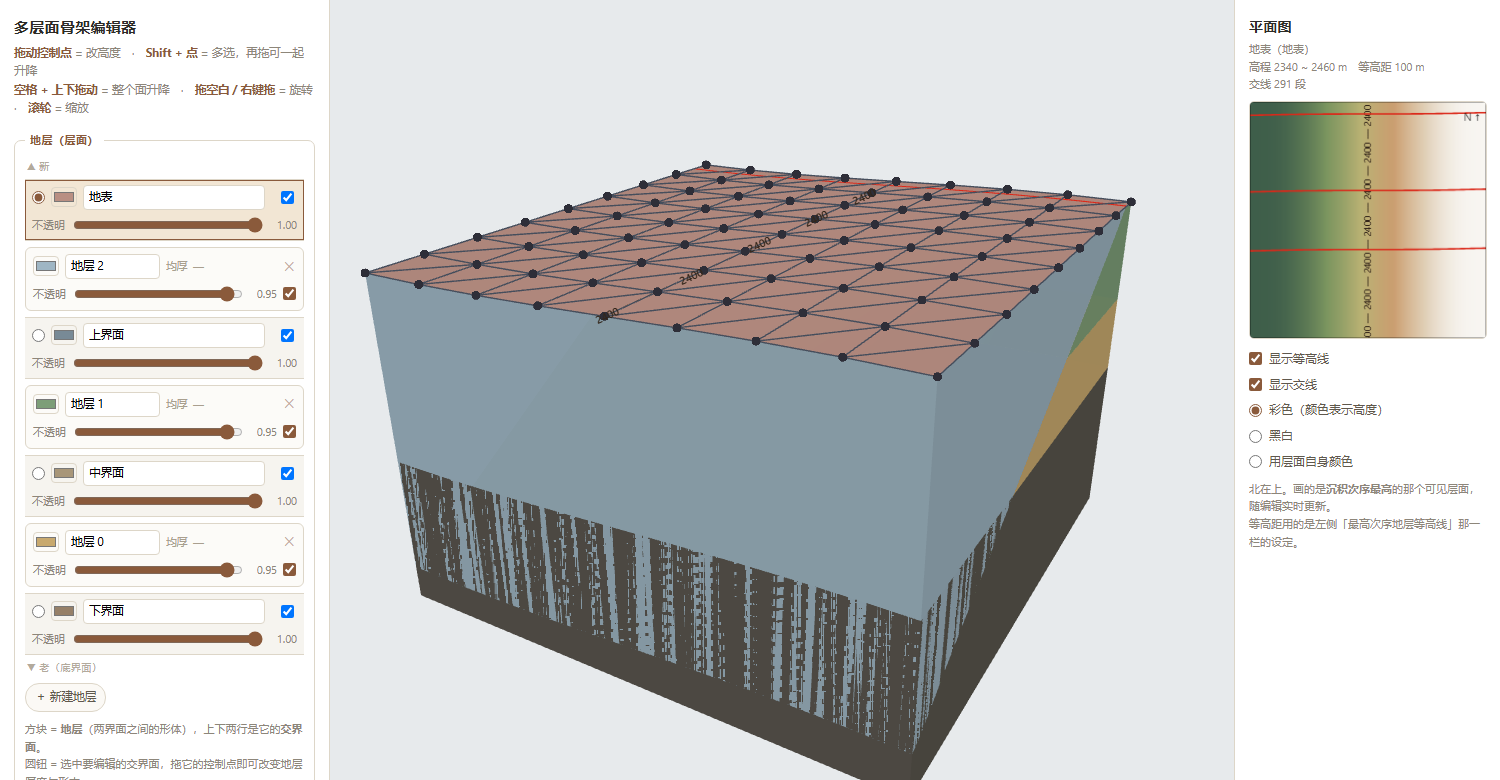
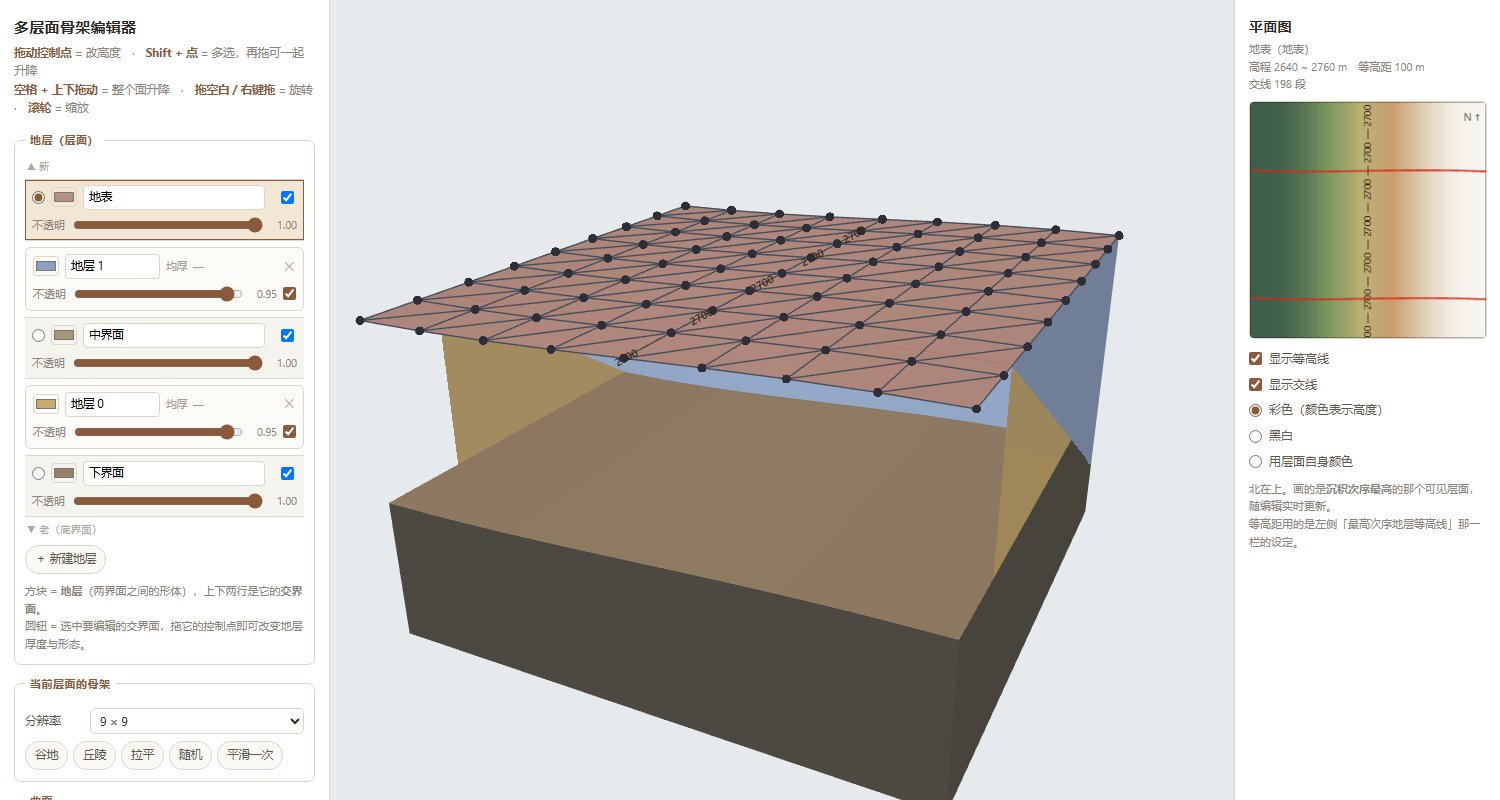
基底（底平面 ↔ 第一个交界面之间那层）也必须服从透明规则；侧壁透明加三档开关
用户报的最后一个问题：
「最下面一层还是有这个bug」—— 他说的最下面一层是【底平面和第一个交界面之间的地层】，
也就是基底。现象是「蓝色和最下面的深棕色重叠，有很多竖条条」。

根因：buildBase 的切面一直硬写 sA.push(1e9)，永远实心，从不参与规则。
于是当某个更高的界面压到 ifaces[0] 以下时，上面的地层会一直探进基底的深度范围，
两张切面在同一平面上共面重叠 —— 就是那一片竖条纹的 z-fighting。

修法：基底的切面用同一条直线 f(z) = min over j>=1 ( z_j ) − z

  上沿（基底的顶 = 最低的那个交界面）→  f = bot.S
  下沿（纯平地面高程）              →  f = C − 地面高程
  C = 该柱上最低的、比基底更高的界面高程

f 在 z = C 处过零，于是 C 以上的那截基底切面被丢掉 —— 正好是被上面地层占住的那一截。
基底深度调大调小不影响过零位置（过零由界面决定，不由深度决定）。

另外把侧壁透明的三种判法做成了面板开关（「侧壁透明」），默认 match：
  match —— 该柱只要顶面或底面任一被判透明，整条柱子就透；与俯视图逐柱严格对上
  taper —— 同一条规则沿高度的连续版本 f(z) = min_{j>k}(z_j) − z
           （上沿那个 min(0, top.S) 里的 0 有依据：最上面那个界面到自己的间距恰好是 0）
  solid —— 侧壁完全不参与规则
基底固定用 taper 那条直线，因为它要挡的共面重叠天生是沿高度的。

为什么加开关：这个 bug 前后改了五轮，每一轮都是我在猜他的构型。与其再猜第六次，
不如把三种判法都留在界面上，让他自己切。

检验 142 项全过。新增 I4 段：
  基底切面上「透明」与「z > 最低的更高界面」逐顶点一致（不符 0/1152）
  被占住的那一截确实存在且全部透明（429 个顶点）
  没被占住的部分保持实心（723 个实心 / 0 个透明）
  基底上沿与它上方那个地层的底面同源、结论一致（不符 0/96）
  关掉规则后基底切面不再透明；基底深度改成 900 m 结论不变
I3 段新增三档开关的各自性质与互不相同，以及存档能恢复该设置。

diff --git a/index.html b/index.html
@@ -146,6 +146,19 @@
 
       <label class="cb"><input type="checkbox" id="cIface" checked> 显示交界面</label>
       <label class="cb"><input type="checkbox" id="cRule" checked> 沉积次序透明规则</label>
+      <div class="row"><label>侧壁透明</label>
+        <select id="cWall">
+          <option value="match" selected>与顶/底面一致（二值）</option>
+          <option value="taper">渐变（相切处收拢成楔形）</option>
+          <option value="solid">侧壁始终实心</option>
+        </select></div>
+      <div class="note" style="margin-top:4px">
+        顶面和底面是<b>面</b>，在每一点上判一次，结论是二值的；
+        侧壁是<b>一段高度</b>，怎么判有三种选法：<br>
+        <b>与顶/底面一致</b> —— 侧壁和俯视图/仰视图完全对上，只要上下任一面透，这个柱子就整条透；
+        <b>渐变</b> —— 在两者之间线性过渡，透明区在相切处收拢成楔形，不会出现贯穿的洞；
+        <b>始终实心</b> —— 切面当作被切开的岩石，永远不透明。
+      </div>
 
       <label class="cb" style="margin-top:9px"><input type="checkbox" id="cContour" checked> 地表等高线</label>
       <label class="cb"><input type="checkbox" id="cContourLabel" checked> 等高线标注高程数字</label>
@@ -244,7 +257,7 @@ const D2R = Math.PI / 180;
 const S = {
   res: 9, ifaces: [], strata: [], active: 0, surf: 'interp',
   showWire: true, showFill: false, showHandles: true, xray: true,
-  inter: true, orderRule: true, showIface: true, curv: false, autoRotate: false,
+  inter: true, orderRule: true, wallMode: 'match', showIface: true, curv: false, autoRotate: false,
   interColor: [0.86, 0.16, 0.10], interAlpha: 1,
   showContour: true, contourInt: 100, contourLabel: true,
   contourColor: [0.353, 0.239, 0.129], contourAlpha: 0.9,
@@ -646,26 +659,26 @@ function buildStratum(k) {
       const at = pos.length/3;
       pos.push(x1,y1,zb1,  x2,y2,zb2,  x2,y2,zt2);
       pos.push(x1,y1,zb1,  x2,y2,zt2,  x1,y1,zt1);
-      /* 侧壁的场 = 这一柱里【某个高度离控制它的那个更高界面还有多远】：
-            f(z) = min over j>k of ( z_j ) − z
-         这是关于 z 的一条斜率恒为 −1 的直线，两个端点正好落在上下两个界面上：
-            下沿 z = z_k      →  f = bot.S
-            上沿 z = z_{k+1}  →  f = min(0, top.S)
-         三角面的两个顶点就在这两端，所以线性插值出来的就是这条直线本身。
-         于是侧壁与顶面/底面【在两端严格一致】：
-            底面透明（bot.S < 0）→ 下沿透明；
-            顶面透明（top.S < 0）→ 上沿透明。
-         这才是"俯视图透明、侧视也该透明"的实现方式 —— 三段用的是同一个判据。
-
-         上沿那个 min(0, ·) 是关键：最上面那个界面没有更高的界面压着，
-         top.S 是 +∞ 哨兵；但几何上它的 f 恰好是 0（自己和自己没有间距）。
-         取 0 而不是 +∞，插值才不会被压扁成一条看不见的发丝；
-         而且 0 不是凑出来的数，是从 f 的定义直接得到的。
-
-         只有一端为负时，透明区是一条【楔形】，在相切/尖灭处收拢到零；
-         两端都为负时整条贯穿 —— 那时上下两个界面确实都被埋掉了。 */
+      /* 侧壁的场有三种选法（面板「侧壁透明」）：
+         match —— 和顶/底面【同一个判据、同样二值】：只要该柱上层或下层那一面被判透明，
+                  整条柱子就透。侧壁与俯视图/仰视图严格对上。
+         taper —— 把同一个规则写成沿高度的连续版本 f(z) = min_{j>k}(z_j) − z，
+                  这是斜率 −1 的直线，两端正好落在两个界面上：
+                     下沿 z=z_k      → f = bot.S
+                     上沿 z=z_{k+1}  → f = min(0, top.S)   （+∞ 哨兵在这个高度上真值是 0）
+                  两端同号（含恰好相切）就实心；只有一端为负时是楔形，不会贯穿。
+         solid —— 侧壁完全不参与规则。
+         注：上沿那个 0 是有依据的 —— 最上面那个界面到自己的间距恰好是 0；
+         曾经用一个「模型高程跨度」的自由尺度硬凑，那是错的，已删除。 */
       const tf = q => { const s = top.S[q]; return s < 0 ? s : 0; };
-      const th = [bot.S[q1], bot.S[q2], tf(q2), bot.S[q1], tf(q2), tf(q1)];
+      let th;
+      if (S.wallMode === 'solid') th = 1e9;
+      else if (S.wallMode === 'taper')
+        th = [bot.S[q1], bot.S[q2], tf(q2), bot.S[q1], tf(q2), tf(q1)];
+      else {
+        const m1 = Math.min(bot.S[q1], top.S[q1]), m2 = Math.min(bot.S[q2], top.S[q2]);
+        th = [m1, m2, m2, m1, m2, m1];
+      }
       for (let u=0;u<6;u++){ nrm.push(nx,ny,0); col.push(base[0],base[1],base[2],1); sA.push(th[u]); }
       for (let u=0;u<6;u++) idx.push(at+u);
     }
@@ -716,13 +729,13 @@ function buildBase() {
   const Lm = mapL(), n = NS+1, z0 = baseZ();
   const pos=[], nrm=[], col=[], idx=[], sA=[];
   const c = S.baseColor.map(v=>v/255);
-  const quad = (pts, nx, ny, nz) => {
+  const quad = (pts, nx, ny, nz, sArr) => {
     const at = pos.length/3;
-    for (const p of pts) {
+    for (let t=0;t<pts.length;t++) {
+      const p = pts[t];
       pos.push(p[0],p[1],p[2]); nrm.push(nx,ny,nz);
       col.push(c[0],c[1],c[2],1);
-      /* 基底永远在最低那个界面之下，不可能倒置 —— 切面永远实心 */
-      sA.push(1e9);
+      sA.push(sArr ? sArr[t] : 1e9);      // 地面本身永远实心
     }
     for (let u=0;u<6;u++) idx.push(at+u);
   };
@@ -731,8 +744,21 @@ function buildBase() {
       const q1=list[t], q2=list[t+1];
       const x1=Lm*(q1%n)/NS, y1=Lm*((q1/n)|0)/NS;
       const x2=Lm*(q2%n)/NS, y2=Lm*((q2/n)|0)/NS;
+      /* 基底的切面【必须参与规则】，否则交界面上有更高的界面压下来时，
+         上面的地层会一直探到基底的深度范围里，两张切面共面重叠 ——
+         看上去就是一片竖条纹的 z-fighting（蓝的和基底的深棕色叠在一起）。
+         这里同样是同一条直线 f(z) = min over j>=1 ( z_j ) − z：
+             上沿 z = z0_bot（基底的顶=最低的那个交界面）→ f = bot.S
+             下沿 z = 地面高程                        → f = C − 地面高程
+         其中 C = 该柱上最低的更高界面高程。f 在 z = C 处过零，
+         也就是说【C 以上的那截基底切面被丢掉】—— 正好是重叠的那一截。
+         基底的判据天生是沿高度的（重叠发生在某个高度以上），
+         所以它固定用这个渐变写法，不跟随面板上的「侧壁透明」模式。 */
+      const t1 = bot.S[q1], t2 = bot.S[q2];
+      const b1 = t1 + bot.Z[q1] - z0, b2 = t2 + bot.Z[q2] - z0;
       quad([[x1,y1,z0],[x2,y2,z0],[x2,y2,bot.Z[q2]],
-            [x1,y1,z0],[x2,y2,bot.Z[q2]],[x1,y1,bot.Z[q1]]], nx, ny, 0);
+            [x1,y1,z0],[x2,y2,bot.Z[q2]],[x1,y1,bot.Z[q1]]], nx, ny, 0,
+           [b1, b2, t2, b1, t2, t1]);
     }
   };
   const south=[], north=[], west=[], east=[];
@@ -1666,6 +1692,10 @@ for (const id in cbs) {
   el.addEventListener('change', () => { S[cbs[id]] = el.checked; after(false); });
 }
 const on = (id, fn) => document.getElementById(id).addEventListener('click', fn);
+/* 侧壁透明的三种判法（见 buildStratum 里的注释） */
+document.getElementById('cWall').addEventListener('change', e => {
+  S.wallMode = e.target.value; after(false);
+});
 /* 交线颜色 / 不透明度走 uniform，改它们只需重绘，不必重建几何 */
 document.getElementById('cInterColor').addEventListener('input', e => {
   const h = e.target.value;
@@ -1742,7 +1772,7 @@ function snapshot() {
                color: S.contourColor.slice(), alpha: S.contourAlpha },
     map: { mode: S.mapMode, contour: S.mapContour, inter: S.mapInter,
            dragSens: S.dragSens },
-    orderRule: S.orderRule, showIface: S.showIface,
+    orderRule: S.orderRule, wallMode: S.wallMode, showIface: S.showIface,
     base: { show: S.showBase, depth: S.baseDepth, color: S.baseColor.slice() },
     view: { az: camAz, el: camEl, dist: camDist },
     // 交界面自下而上；地层数 = 交界面数 − 1，strata[k] 位于 ifaces[k] 与 ifaces[k+1] 之间
@@ -1830,6 +1860,10 @@ function loadText(text) {
   if (typeof d.orderRule === 'boolean') {
     S.orderRule = d.orderRule;
     document.getElementById('cRule').checked = S.orderRule;
+  }
+  if (d.wallMode === 'match' || d.wallMode === 'taper' || d.wallMode === 'solid') {
+    S.wallMode = d.wallMode;
+    document.getElementById('cWall').value = S.wallMode;
   }
   if (typeof d.showIface === 'boolean') {
     S.showIface = d.showIface;

diff --git a/README.md b/README.md
@@ -89,36 +89,39 @@ S < 0  →  有更高的界面压在下面  →  丢弃该片元
 
 在场上过零处丢弃片元，透明边界就**精确落在两面的交线上**。如果改用逐顶点开关，边界只能落在三角形顶点上，会呈网格状锯齿，正好把画在那条边界上的交线啃出缺口。
 
-**侧壁（切面）用的是同一个场的连续版本，所以两端和顶/底面严格一致。**
+**侧壁（切面）的透明有三种判法**，面板上「侧壁透明」可选：
 
-顶面和底面是"面"，在每一点上判一次；侧壁是一段高度，要在**整段**上判。同一个规则的连续写法，是看某个高度离控制它的那个更高界面有多远：
+顶面和底面是**面**，在每一点上判一次，结论是**二值**的；侧壁是**一段高度**，怎么判有讲究：
+
+| 模式 | 做法 | 特点 |
+|---|---|---|
+| **与顶/底面一致**（默认） | 该柱只要顶面或底面任一被判透明，整条柱子就透 | 侧壁与俯视图/仰视图**逐柱严格对上** |
+| 渐变 | 把同一个规则写成沿高度的连续版本（下沿 `bot.S`、上沿 `min(0, top.S)`） | 只有一端为负时是**楔形**，在相切处收拢到零，不会贯穿；但面上二值、侧壁渐变，两者看上去可能不一样 —— 界面埋得浅时侧壁只剩一条细缝，看着仍像实心 |
+| 始终实心 | 侧壁完全不参与规则 | 切面当作被切开的岩石 |
+
+**基底（底平面 ↔ 第一个交界面之间那层）固定用"渐变"，不跟随上面的模式。** 因为基底要挡的那件事天生是沿高度的：某个更高的界面压到 `ifaces[0]` 以下时，上面的地层会一直探进基底的深度范围，**两张切面共面重叠**，看上去就是一片竖条纹的 z-fighting（蓝色地层和基底的深棕色叠在一起）。
 
 ```
-f(z) = min over j>k of ( z_j ) − z        关于 z 的直线，斜率恒为 −1
+f(z) = min over j>=1 of ( z_j ) − z        同样是斜率 −1 的直线
 
-下沿 z = z_k      →  f = bot.S          （和【底面】用的是同一个数）
-上沿 z = z_{k+1}  →  f = min(0, top.S)  （和【顶面】同号）
+上沿（基底的顶 = 最低的那个交界面）→  f = bot.S
+下沿（纯平地面高程）              →  f = C − 地面高程，C = 该柱最低的更高界面
 S < 0 → 丢弃
 ```
 
-三角面的两个顶点正好落在这两端，所以插值出来的就是这条直线本身。于是：
+`f` 在 `z = C` 处过零，也就是**C 以上的那截基底切面被丢掉** —— 正好是被上面地层占住的那一截。基底深度调大调小都不影响过零位置，因为过零位置是由界面决定的。
 
-- **底面透明 ⇒ 侧壁下沿透明**，**顶面透明 ⇒ 侧壁上沿透明** —— 两端严格一致，俯视图透的地方侧面也透
-- 只有一端为负时，透明区是一条**楔形**，在相切/尖灭处收拢到零
-- 两端都为负时整条贯穿（那时上下两个界面确实都被埋掉了）
-- 两端都不为负（含恰好相切）时**保持实心**
-
-上沿那个 `min(0, ·)` 是关键。最上面那个界面没有更高的界面压着，它的场是 `+∞` 哨兵；但几何上它到自己的间距恰好是 **0**，所以取 0 是有依据的，不是凑出来的数。（曾经用一个"模型高程跨度"的自由尺度硬凑，那是错的：**0 才是 f 在 z = z_{k+1} 处的真值**。）
+「渐变」那两个端点不是凑的：`f(z)` 是斜率恒为 −1 的直线，两端正好落在两个界面上。上沿那个 `min(0, top.S)` 里的 `0` 也不是凑的 —— 最上面那个界面没有更高的界面压着、它的场是 `+∞` 哨兵，**而几何上它到自己的间距恰好就是 0**。（曾经用一个"模型高程跨度"的自由尺度硬凑，那是错的，已经删掉。）
 
 这个判据走过三个弯路，都记在这里免得再走回去：
 
 | 写法 | 后果 |
 |---|---|
-| 上下沿都用 `min(下界面场, 上界面场)`，整柱一个值 | 面和侧壁是一致的（这点是对的），但柱内没有梯度，相切附近会整条透明成一个**洞** |
-| 侧壁完全不参与规则 | 规则在切面上彻底看不见 |
-| 改用"这一柱的厚度是否 < 0"判 | 判据和顶/底面**不再是同一个**了 —— 于是出现**俯视图透明、侧面却实心** |
+| 侧壁完全不参与规则（基底也一直如此） | 规则在切面上彻底看不见；基底还会和上面的地层**共面重叠成竖条纹** |
+| 侧壁改用"这一柱的厚度是否 < 0"判 | 判据和顶/底面**不同源** → 出现**俯视图透明、侧面却实心** |
+| 只用渐变（面上二值、侧壁渐变） | 埋得浅的地方侧壁只剩一条细缝，看着仍像实心 |
 
-**关键教训：侧壁的场必须和顶/底面同源。** 一旦给侧壁换一个别的判据（不管是厚度、还是"永远实心"），就会出现"俯视图透了、侧面没透"这种不一致。
+**关键教训：侧壁的判据必须和顶/底面同源。** 一旦另立一个（不管是厚度、还是"永远实心"），就会出现"俯视图透了、侧面没透"这种不一致。默认的「与顶/底面一致」模式从定义上杜绝了这件事；基底因为要挡共面重叠，用渐变的同一条直线。
 
 **基底与地面**
 - 最下面自动长出一层**基底**：从最底下的交界面往下 `S.baseDepth`（默认 250 m），四周同样是实心侧壁
@@ -170,7 +173,7 @@ S < 0 → 丢弃
 node test/skeleton-check.js
 ```
 
-用假 WebGL + 假 DOM 让程序在 Node 里完整跑起来，然后做数值断言。共 **130 项**，覆盖：
+用假 WebGL + 假 DOM 让程序在 Node 里完整跑起来，然后做数值断言。共 **142 项**，覆盖：
 
 - **数学正确性**：Catmull-Rom 严格穿过控制点（误差 5.6e-8 m）；抛物面的高斯曲率与解析值 c² 相对误差 **0.000%**；穹隆/鞍部/圆柱面的曲率符号正确（圆柱面 K 精确为 0）
 - **规则正确性**：交界面的透明判据**逐点**等于定义（9409 个顶点不符 0 个）；规则是单边的
